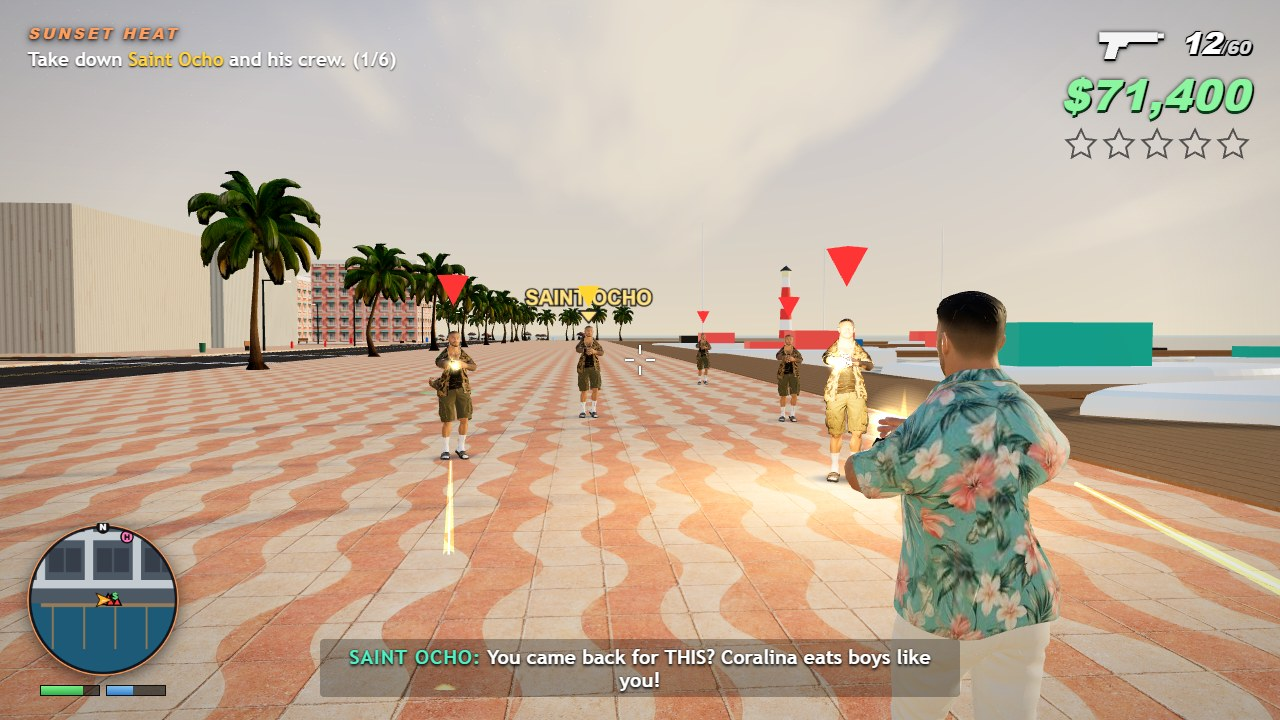
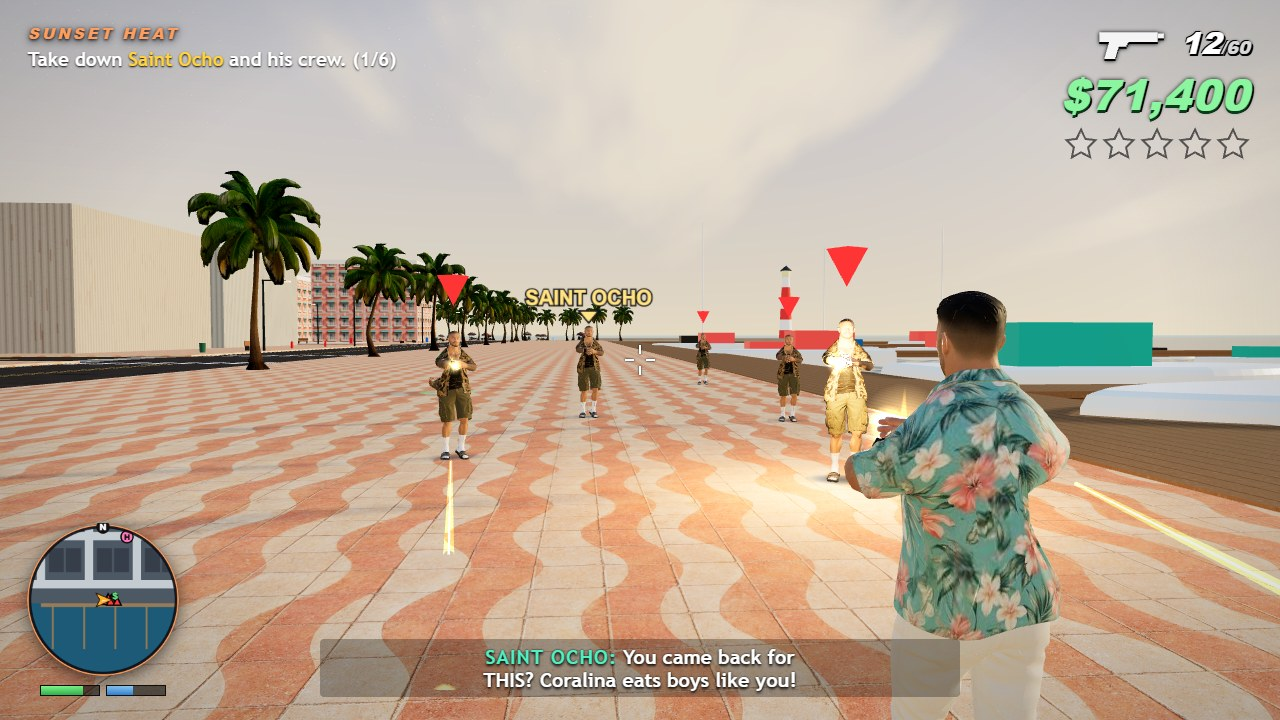
Separate mission capture marker and subtitle text

Changed region(s): [[0.25, 0.8861, 0.7188, 0.9778], [0.4375, 0.3972, 0.4688, 0.4278]]

diff --git a/game/style.css b/game/style.css
@@ -100,6 +100,7 @@ kbd { background: #2a2440; border: 1px solid #5a4f80; border-radius: 3px; paddin
 .capture .grade { background: radial-gradient(ellipse at 50% 45%, transparent 58%, rgba(9,16,24,.22) 100%); }
 .capture .hud-objective { border: 0; background: none; padding: 0; text-shadow: 0 1px 3px #10141d, 0 2px 8px #10141d; }
 .capture .hud-hint, .capture .hud-toast, .capture .hud-mission-title { display: none; }
+.capture .hud-subtitle { text-wrap: balance; }
 @media (min-width: 900px) and (min-height: 601px) {
   .capture .hud-radar, .capture .hud-radar canvas { width: 154px; }
   .capture .hud-radar canvas { height: 154px; }

diff --git a/game/src/shots.js b/game/src/shots.js
@@ -132,6 +132,8 @@ const SCENES = {
     targetBadge(game, enemies[0], 'SAINT OCHO');
     game.hud.subtitle(CAST.ocho.name, CAST.ocho.color, 'You came back for THIS? Coralina eats boys like you!', 4);
     game.missions.update(0);
+    // The named badge already includes an arrow; retain the stock markers on the other targets.
+    enemies[0].tag.visible = false;
   },
 
   title(game) {
